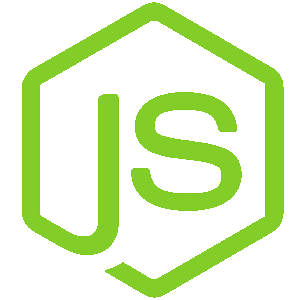
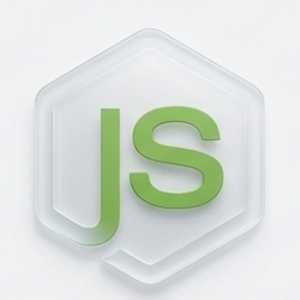
Setup nodemailer and change skills section image

diff --git a/app/components/ContactForm.tsx b/app/components/ContactForm.tsx
@@ -1,3 +1,5 @@
+'use client';
+
 import React, { useState } from 'react';
 
 export default function ContactForm() {
@@ -8,28 +10,68 @@ export default function ContactForm() {
     message: '',
   });
 
+  const [status, setStatus] = useState<{
+    loading: boolean;
+    success: boolean;
+    error: string | null;
+  }>({
+    loading: false,
+    success: false,
+    error: null,
+  });
+
   const handleChange = (e: React.ChangeEvent<HTMLInputElement | HTMLTextAreaElement>) => {
     const { name, value } = e.target;
     setFormData((prev) => ({ ...prev, [name]: value }));
   };
 
-  const handleSubmit = (e: React.FormEvent<HTMLFormElement>) => {
+  const handleSubmit = async (e: React.FormEvent<HTMLFormElement>) => {
     e.preventDefault();
-    // Handle form submission logic here
-    console.log(formData);
+    setStatus({ loading: true, success: false, error: null });
+
+    try {
+      const response = await fetch('/api/contact', {
+        method: 'POST',
+        headers: {
+          'Content-Type': 'application/json',
+        },
+        body: JSON.stringify(formData),
+      });
+
+      const result = await response.json();
+
+      if (!response.ok) {
+        throw new Error(result.error || 'Something went wrong');
+      }
+
+      setStatus({ loading: false, success: true, error: null });
+      setFormData({ name: '', email: '', phone: '', message: '' }); // Reset form
+    } catch (error: any) {
+      setStatus({ loading: false, success: false, error: error.message || 'Failed to send message' });
+    }
   };
 
   return (
-
     <div className="mt-20">
       <h1 className="relative pb-2 mb-5 text-gray-500 text-xl font-semibold uppercase tracking-wider after:content-[''] after:absolute after:left-0 after:bottom-0 after:w-[50px] after:h-[3px] after:bg-light-orange after:rounded-full">
         DROP ME A LINE
       </h1>
+
+      {/* Status Messages */}
+      {status.success && (
+        <div className="mb-6 p-4 bg-green-50 border border-green-200 text-green-700 text-sm rounded">
+          Your message has been sent successfully! I will get back to you soon.
+        </div>
+      )}
+      {status.error && (
+        <div className="mb-6 p-4 bg-red-50 border border-red-200 text-red-700 text-sm rounded">
+          {status.error}
+        </div>
+      )}
+
       {/* Form */}
       <form onSubmit={handleSubmit}>
-        {/* Grid container: 1 column on mobile, 2 columns on desktop */}
         <div className="grid grid-cols-1 md:grid-cols-2 gap-6">
-
           {/* Left Column: Input Fields */}
           <div className="flex flex-col gap-4">
             <input
@@ -81,24 +123,16 @@ export default function ContactForm() {
           </p>
           <button
             type="submit"
-            className="relative inline-block px-4 py-3 font-semibold text-white bg-light-orange overflow-hidden z-10 transition-colors duration-300 hover:text-white group cursor-pointer"
+            disabled={status.loading}
+            className="relative inline-block px-6 py-3 font-semibold text-white bg-light-orange overflow-hidden z-10 transition-colors duration-300 hover:text-white group cursor-pointer disabled:opacity-50"
           >
-            {/* Sliding background layer */}
             <span className="absolute inset-0 bg-dark-orange -translate-x-full origin-left transition-transform duration-400 ease-[cubic-bezier(0.16,1,0.3,1)] group-hover:translate-x-0 -z-10" />
-            {/* Link Content (Text + Icon) */}
             <span className="relative z-10 flex items-center gap-2">
-              SEND MESSAGE
+              {status.loading ? 'SENDING...' : 'SEND MESSAGE'}
             </span>
           </button>
         </div>
       </form>
-      <div>
-      </div>
     </div>
-
-
-
-
-
   );
 }

diff --git a/app/skils/page.tsx b/app/skils/page.tsx
@@ -64,7 +64,7 @@ const page = () => {
               {/* Item 1 */}
               <div className="p-6 bg-white rounded-lg  ">
                 <div className="flex flex-col justify-center items-center space-y-2 h-[300px] w-[300px] rounded-md border-4 border-[#00D8FF] ">
-                  <Image src="/images/skils/react.png" width={200} height={300} alt="React" />
+                  <Image src="/images/skils/react.png" width={200} height={200} alt="React" />
                   <p className="font-extrabold text-[#00D8FF]">ReactJS</p>
                 </div>
               </div>
@@ -72,7 +72,7 @@ const page = () => {
               {/* Item 2 */}
               <div className="p-6 bg-white rounded-lg  ">
                 <div className="flex flex-col justify-center items-center space-y-2 h-[300px] w-[300px] rounded-md border-4 border-[#212121] ">
-                  <Image src="/images/skils/express.png" width={200} height={300} alt="React" />
+                  <Image src="/images/skils/express.png" width={200} height={200} alt="React" />
                    <p className="font-extrabold text-[#212121]">ExpressJS</p>
                 </div>
               </div>
@@ -80,7 +80,7 @@ const page = () => {
               {/* Item 3 */}
               <div className="p-6 bg-white rounded-lg  ">
                 <div className="flex flex-col justify-center items-center space-y-2 h-[300px] w-[300px] rounded-md border-4 border-[#57AE47] ">
-                  <Image src="/images/skils/mongodb.png" width={200} height={300} alt="React" />
+                  <Image src="/images/skils/mongodb.png" width={200} height={200} alt="React" />
                    <p className="font-extrabold text-[#57AE47]">MongoDB</p>
                 </div>
               </div>
@@ -88,7 +88,7 @@ const page = () => {
               {/* Item 4 */}
               <div className="p-6 bg-white rounded-lg  ">
                 <div className="flex flex-col justify-center items-center space-y-2 h-[300px] w-[300px] rounded-md border-4 border-[#83CD29] ">              
-                <Image src="/images/skils/node.png" width={200} height={300} alt="React" />
+                <Image src="/images/skils/node.png" width={200} height={200} alt="React" />
                    <p className="font-extrabold text-[#83CD29]">NodeJS</p>
                 </div>
               </div>
@@ -96,7 +96,7 @@ const page = () => {
               {/* Item 5 */}
               <div className="p-6 bg-white rounded-lg  ">
                 <div className="flex flex-col justify-center items-center space-y-2 h-[300px] w-[300px] rounded-md border-4 border-[#764ABC] ">
-                  <Image src="/images/skils/redux.png" width={200} height={300} alt="React" />
+                  <Image src="/images/skils/redux.png" width={200} height={200} alt="React" />
                    <p className="font-extrabold text-[#764ABC]">ReduxJS</p>
                 </div>
               </div>
@@ -105,7 +105,7 @@ const page = () => {
               {/* Item 6 */}
               <div className="p-6 bg-white rounded-lg  ">
                 <div className="flex flex-col justify-center items-center space-y-2 h-[300px] w-[300px] rounded-md border-4 border-[#000000] ">
-                  <Image src="/images/skils/next.png" width={200} height={300} alt="React" />
+                  <Image src="/images/skils/next.png" width={200} height={200} alt="React" />
                    <p className="font-extrabold text-[#000000]">NextJS</p>
                 </div>
               </div>

diff --git a/app/api/contact/route.ts b/app/api/contact/route.ts
@@ -1,0 +1,60 @@
+import { NextResponse } from 'next/server';
+import nodemailer from 'nodemailer';
+
+export async function POST(request: Request) {
+  try {
+    const { name, email, phone, message } = await request.json();
+
+    // Basic validation
+    if (!name || !email || !message) {
+      return NextResponse.json(
+        { error: 'Missing required fields' },
+        { status: 400 }
+      );
+    }
+
+    // Configure the transporter using Gmail SMTP
+    const transporter = nodemailer.createTransport({
+      service: 'gmail',
+      auth: {
+        user: process.env.GMAIL_USER,
+        pass: process.env.GMAIL_APP_PASSWORD,
+      },
+    });
+
+    // Configure the email options
+    const mailOptions = {
+      from: process.env.GMAIL_USER,
+      to: process.env.GMAIL_USER, // Receiving email (usually your own)
+      subject: `New Contact Form Message from ${name}`,
+      text: `
+        Name: ${name}
+        Email: ${email}
+        Phone: ${phone || 'Not provided'}
+        Message: ${message}
+      `,
+      html: `
+        <h3>New Contact Form Submission</h3>
+        <p><strong>Name:</strong> ${name}</p>
+        <p><strong>Email:</strong> ${email}</p>
+        <p><strong>Phone:</strong> ${phone || 'Not provided'}</p>
+        <p><strong>Message:</strong></p>
+        <p>${message.replace(/\n/g, '<br>')}</p>
+      `,
+    };
+
+    // Send email
+    await transporter.sendMail(mailOptions);
+
+    return NextResponse.json(
+      { message: 'Email sent successfully!' },
+      { status: 200 }
+    );
+  } catch (error) {
+    console.error('Failed to send email:', error);
+    return NextResponse.json(
+      { error: 'Internal Server Error. Failed to send email.' },
+      { status: 500 }
+    );
+  }
+}
